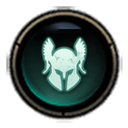
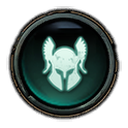
Menu medallions all in one frame, the world-map HUD's Research/Empire frame; Tomes the HUD's own Research button (TomesHudIcon.png)

diff --git a/HTML/header.html b/HTML/header.html
@@ -425,7 +425,7 @@
                 <li>
                     <a id="menu-tomes" class="prett"
                         ><img
-                            src="/evolved/Icons/Interface/Header/TomesIcon.png"
+                            src="/evolved/Icons/Interface/Header/TomesHudIcon.png"
                             width="40px" />Tomes</a
                     >
                     <ul class="menus">

diff --git a/EVOLVED.md b/EVOLVED.md
@@ -46,18 +46,19 @@ game's world-map HUD (its sheet is `Icons/Interface/TopBar.png`), in three bands
 - the banner (`--banner-height`, 80px): just the title on the picture, which darkens towards the menu;
 - the menu on the game's stone bar (`Icons/Interface/HudStoneBar.png`: the sheet's bar with its gem at both ends), its
   labels in the game's Header font; the dropdowns on the cards' panel, a group (Culture ▸) in gold, a page in blue.
-  Every menu item has one of the game's round HUD medallions, 44px and centred on the stone, its ring 86% of its image
-  (as in `TomesIcon.png`) so all nine rings are the same size. Units, Heroes and Search
-  (upstream: the Tome Units star, `HeroIcon.png` and `search.png`) have `UnitsIcon.png`, `HeroesIcon.png` and
-  `SearchIcon.png`: the Culture Units, Heroes and Search medallions with their glyph cleared and the game's own text icon
-  (`Icons/TML/unit.png`, `unithero.png`, `inspect.png`) drawn smaller in its place, as small in its circle as the others'
-  glyphs. Abilities and World Map (upstream: the ability diamond and the Structures hammer) have Evolved's own
-  `AbilitiesIcon.png` and `WorldMapIcon.png` in `Icons/Interface/Header/`: the game's tactical-cast star and province
-  pin (`Icons/TML/`) in the medallions' beige, on a blank medallion made from the others. Spells, Empire and
-  Builds/Planners (upstream: `SpellsIcon.png`, the grey `EmpireIcon.png` and the info "i") have the world-map HUD's own
-  Spells, Empire and Item Forge buttons, `SpellsHudIcon.png`, `EmpireHudIcon.png` and `ForgeHudIcon.png`: each its
-  frame, gem and picture from the game's TopBar atlas (`INTERFACEASSETS` atlas 13, read with aow4_diff_tools'
-  `tmlicons.atlases`), the picture enlarged 25% so the glyph is as big as the other medallions'.
+  Every menu item is a round medallion in one frame, the world-map HUD's Research/Empire frame
+  (`ResearchButton_Frame`, from the game's TopBar atlas: `INTERFACEASSETS` atlas 13, read with aow4_diff_tools'
+  `tmlicons.atlases`), 44px and centred on the stone, the frame 86% of the image. In `Icons/Interface/Header/`:
+  - `TomesHudIcon.png`, `SpellsHudIcon.png`, `EmpireHudIcon.png` and `ForgeHudIcon.png` (Builds/Planners) are the HUD's
+    own Research, Spells, Empire and Item Forge buttons: their picture and glass from the same atlas, the picture
+    enlarged 25% so the glyph is as big as the others'. Upstream: `TomesIcon.png`, `SpellsIcon.png`, the grey
+    `EmpireIcon.png` and the info "i".
+  - `UnitsIcon.png`, `HeroesIcon.png` and `SearchIcon.png` (upstream: the Tome Units star, `HeroIcon.png` and
+    `search.png`) are the Culture Units, Heroes and Search medallions' spheres, their glyph cleared and the game's own
+    text icon (`Icons/TML/unit.png`, `unithero.png`, `inspect.png`) drawn smaller in its place.
+  - `AbilitiesIcon.png` and `WorldMapIcon.png` (upstream: the ability diamond and the Structures hammer) are the
+    game's tactical-cast star and province pin (`Icons/TML/`) in the medallions' beige, on a blank sphere made from
+    the site's other medallions.
   The "Updated:" date is 14px (11px on a phone), a size under the dataset's name.
 No Other Database dropdown: Evolved keeps no other databases. On a phone the strip holds just the dataset and date,
 and Settings and Donate are at the foot of the ☰ menu, a drawer on the cards' panel.
